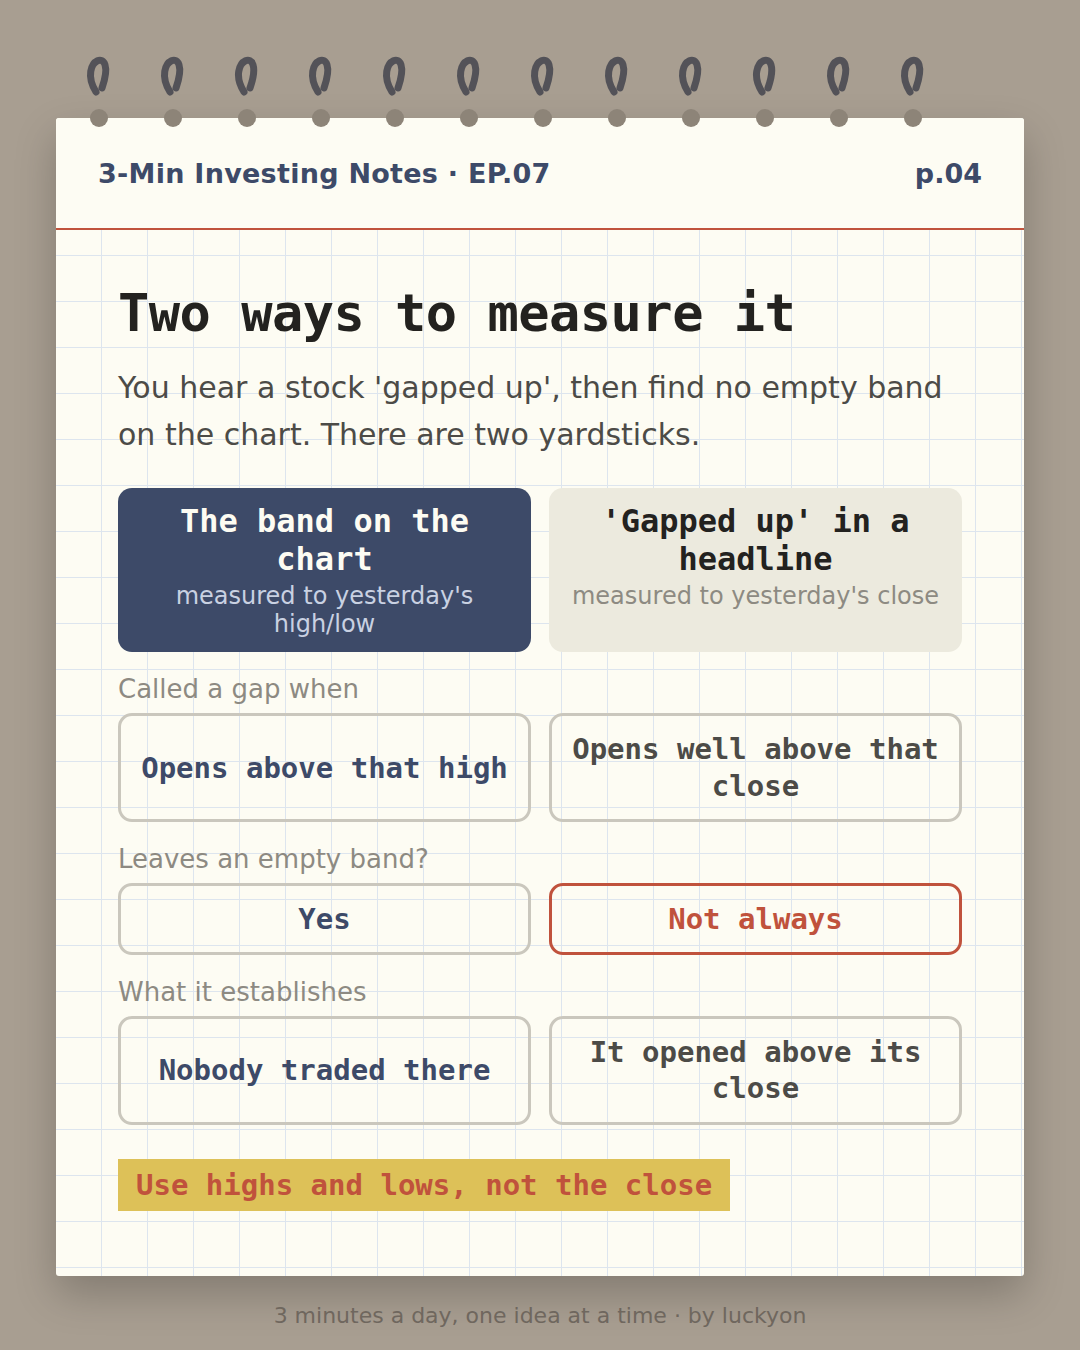
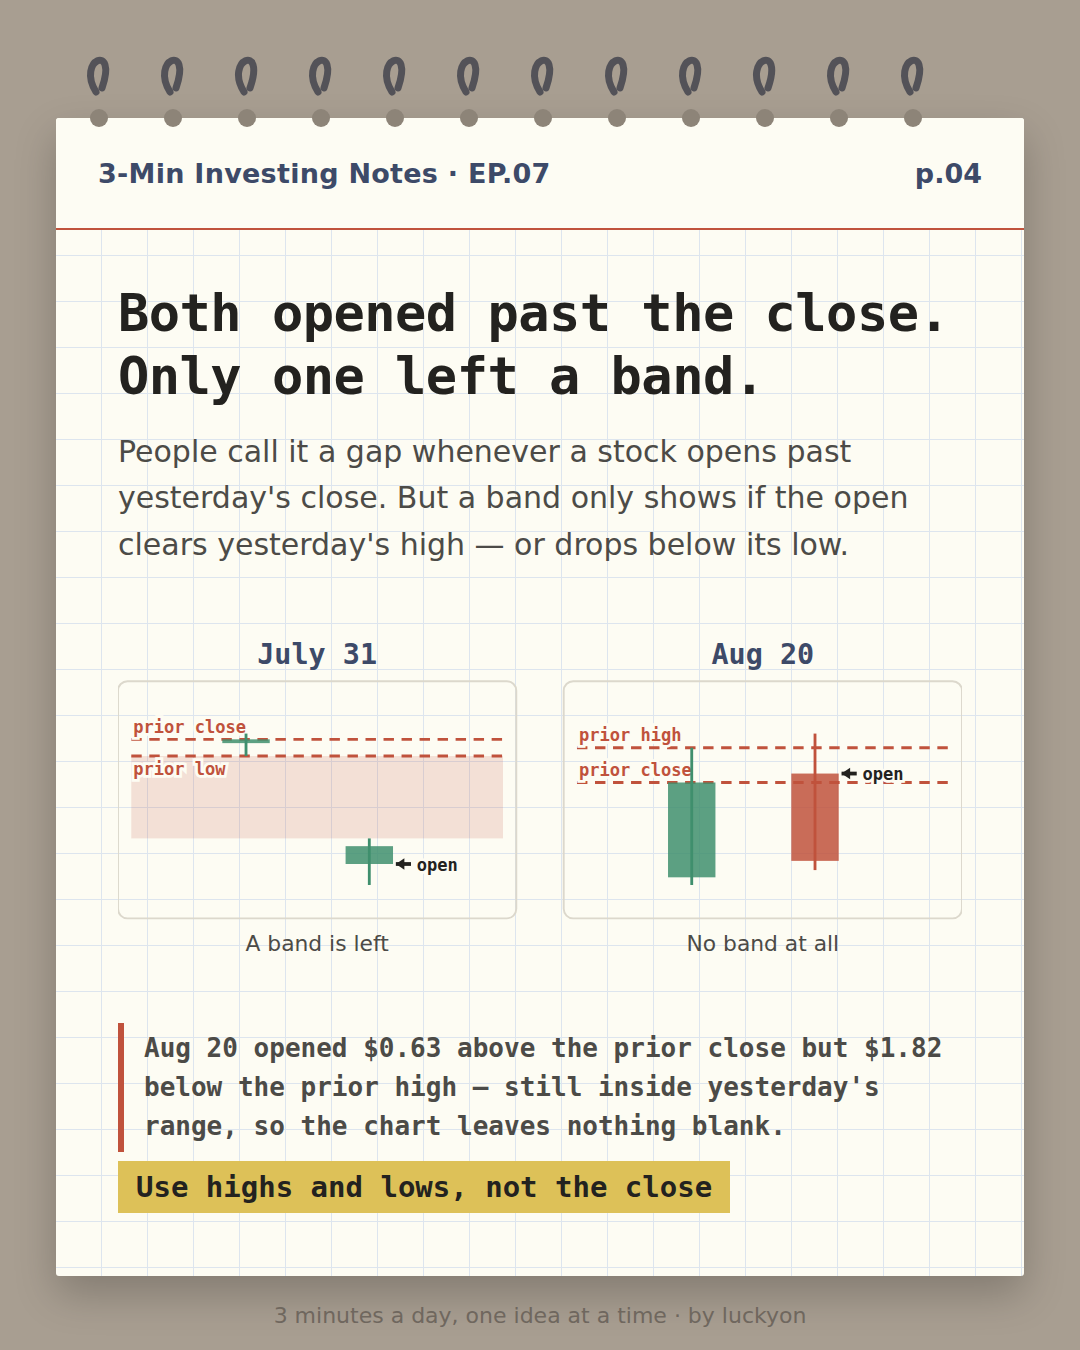
chart-notes EP.07: p.04 를 표에서 «실제 두 날을 맞댄 그림»으로
사용자 지적 — 「설명은 좋은데 딱 봐서 바로 와닿지 않는다」. 검증
에이전트도 8장 중 이 카드를 짚어 «가장 잘 조사됐는데 이 독자가 아직
가지지 않은 문제를 푼다»고 했다. 둘이 같은 자리를 가리켰다.

원인은 내용이 아니라 형식이었다. 「오늘 시가가 어제 캔들의 어디에
떨어지는가」는 본질적으로 공간적인 이야기인데 용어표로 쓰니 독자가
한 번 더 번역해서 읽어야 했다. 이 카드만 숫자도 그림도 없었다.

실제 시세 두 날을 나란히 놓았다. 삼성전자 7/31(어제 고가보다 31,000원
위 → 빈칸 남음)과 8/4(어제 종가보다 5,000원 위, 어제 고가보다 5,000원
아래 → 빈칸 없음). 같은 5,000원인데 기준에 따라 답이 갈리는 것이 그림
하나로 보인다. 영어판은 7/31 갭 하락과 8/20 을 맞댔다.

두 날의 OHLC 는 p.06 의 bars 와 완전히 같은 값이라(스크립트로 대조)
새로 검증할 숫자가 없다.

Claude-Session: https://claude.ai/code/session_01WjA7typA9szpnr2FeUn6gP

Changed region(s): [[0.0917, 0.2178, 0.8861, 0.9022], [0.4583, 0.6533, 0.55, 0.7156], [0.8556, 0.6533, 0.8861, 0.6844]]

diff --git a/cards/chart-notes/2026-09-13-ep07/preview.html b/cards/chart-notes/2026-09-13-ep07/preview.html
@@ -74,8 +74,8 @@
       <figcaption><b>p.03</b> 제목 '빈칸은 두 방향으로 벌어집니다'. 본문: 어제 고가보다 위에서 오늘이 시작하면 갭 상승, 어제 저가보다 아래에서 시작하면 갭 하락입니다. 어느 쪽이든 그 사이는 거래가 없던 구간입니다. 그림은 칸 두 개다. 왼쪽 '갭 상승'은 캔들 세 개가 연분홍 띠 아래에 있고 다음 세 개가 띠 위에 있다. 오른쪽 '갭 하락'은 반대로 캔들 세 개가 띠 위에, 다음 세 개가 띠 아래에 있다. 두 칸 모두 띠 안에는 캔들이 없다. 각각 캡션 '어제 고가 위에서 시작', '어제 저가 아래에서 시작'. 붉은 세로줄 문단: 빈칸의 위아래 끝을 정하는 건 어제 캔들과 오늘 캔들입니다. 형광펜 '어느 쪽으로, 얼마나 벌어졌는지를 함께 봅니다'.</figcaption>
     </figure>
     <figure>
-      <img src="ko/card4.png" alt="제목 '갭이 있다고도, 없다고도 합니다'. 본문: '갭 상승 출발'이라고 들었는데 차트엔 빈칸이 안 보일 때가 있습니다. 기준이 둘이라 그렇습니다. 표는 두 칸이다. 왼쪽 감청색 '차트의 빈칸 — 어제 고가·저가 기준', 오른쪽 회색 '말로 하는 갭 상승 — 어제 종가 기준'. 세 줄 비교. 언제 그렇게 부르나: 어제 고가보다 위에서 시작 / 어제 종가보다 눈에 띄게 높게 시작. 차트에 빈칸이 남나: 남습니다 / 안 남을 수도 있습니다(붉게 강조). 무엇을 알 수 있나: 그 구간에 거래가 없었습니다 / 어제 종가보다 높게 출발했습니다. 형광펜 '빈칸은 종가 말고 고가·저가로 찾습니다'." loading="lazy">
-      <figcaption><b>p.04</b> 제목 '갭이 있다고도, 없다고도 합니다'. 본문: '갭 상승 출발'이라고 들었는데 차트엔 빈칸이 안 보일 때가 있습니다. 기준이 둘이라 그렇습니다. 표는 두 칸이다. 왼쪽 감청색 '차트의 빈칸 — 어제 고가·저가 기준', 오른쪽 회색 '말로 하는 갭 상승 — 어제 종가 기준'. 세 줄 비교. 언제 그렇게 부르나: 어제 고가보다 위에서 시작 / 어제 종가보다 눈에 띄게 높게 시작. 차트에 빈칸이 남나: 남습니다 / 안 남을 수도 있습니다(붉게 강조). 무엇을 알 수 있나: 그 구간에 거래가 없었습니다 / 어제 종가보다 높게 출발했습니다. 형광펜 '빈칸은 종가 말고 고가·저가로 찾습니다'.</figcaption>
+      <img src="ko/card4.png" alt="제목 '둘 다 갭 상승 출발인데 한쪽만 빈칸이 남습니다'. 본문: 어제 종가보다 높게 시작하면 흔히 '갭 상승'이라고 합니다. 그런데 차트에 빈칸이 남으려면 어제 고가보다 위에서 시작해야 합니다. 그림은 실제 삼성전자 두 날을 나란히 놓은 칸 두 개다. 왼쪽 '7월 31일'은 어제 캔들이 아래에 있고 붉은 점선 '어제 고가' 위로 연분홍 빈 띠가 있으며, 그 위의 오늘 캔들에 '오늘 시가' 화살표가 붙어 있다. 오른쪽 '8월 4일'은 '어제 고가'와 '어제 종가' 두 점선 사이에 '오늘 시가' 화살표가 끼어 있고, 두 캔들이 서로 겹쳐 빈 띠가 없다. 칸 아래 설명은 각각 '빈칸이 남습니다', '빈칸이 없습니다'. 붉은 세로줄 문단: 8월 4일은 어제 종가보다 5,000원 위, 어제 고가보다는 5,000원 아래에서 시작했습니다. 같은 5,000원인데 어느 쪽을 기준으로 삼느냐에 따라 답이 갈립니다. 형광펜 '빈칸은 종가 말고 고가·저가로 찾습니다'." loading="lazy">
+      <figcaption><b>p.04</b> 제목 '둘 다 갭 상승 출발인데 한쪽만 빈칸이 남습니다'. 본문: 어제 종가보다 높게 시작하면 흔히 '갭 상승'이라고 합니다. 그런데 차트에 빈칸이 남으려면 어제 고가보다 위에서 시작해야 합니다. 그림은 실제 삼성전자 두 날을 나란히 놓은 칸 두 개다. 왼쪽 '7월 31일'은 어제 캔들이 아래에 있고 붉은 점선 '어제 고가' 위로 연분홍 빈 띠가 있으며, 그 위의 오늘 캔들에 '오늘 시가' 화살표가 붙어 있다. 오른쪽 '8월 4일'은 '어제 고가'와 '어제 종가' 두 점선 사이에 '오늘 시가' 화살표가 끼어 있고, 두 캔들이 서로 겹쳐 빈 띠가 없다. 칸 아래 설명은 각각 '빈칸이 남습니다', '빈칸이 없습니다'. 붉은 세로줄 문단: 8월 4일은 어제 종가보다 5,000원 위, 어제 고가보다는 5,000원 아래에서 시작했습니다. 같은 5,000원인데 어느 쪽을 기준으로 삼느냐에 따라 답이 갈립니다. 형광펜 '빈칸은 종가 말고 고가·저가로 찾습니다'.</figcaption>
     </figure>
     <figure>
       <img src="ko/card5.png" alt="제목 '메운다는 건 되돌아와 그 구간을 지나가는 것'. 본문: 빈칸이 생긴 뒤 가격이 다시 그 구간을 통과하면 '갭을 메웠다'고 합니다. 위로 벌어진 빈칸은 내려와서, 아래로 벌어진 빈칸은 올라가서 메웁니다. 그림은 붉은 점선 두 줄 사이가 연분홍 띠로 칠해져 있고, 왼쪽 아래의 감청색 선이 띠 아래에서 끊긴 뒤 띠 위에서 다시 시작해 올라갔다가 내려오며 띠를 통과한다. 통과한 지점에 붉은 동그라미와 '여기서 메워졌습니다'. 띠의 두 끝에 '빈칸 위끝', '빈칸 아래끝' 표시. 붉은 세로줄 문단: 띠 안에 들어온 것과 반대쪽 끝까지 닿은 것은 다릅니다 — 여기서는 끝까지 닿아야 메워진 것으로 봅니다. 걸리는 시간도 정해져 있지 않아, 그날 바로 메워지기도 하고 몇 주가 걸리기도 합니다. 형광펜 ''언젠가는 메워진다'가 규칙은 아닙니다'." loading="lazy">
@@ -111,8 +111,8 @@
       <figcaption><b>p.03</b> Title: 'The empty band opens two ways'. Body: Open above yesterday's high and you get a gap up. Open below yesterday's low and you get a gap down. Either way, the stretch in between went untraded. Two panels. Left, 'Gap up': three candles below a pale pink band, then three candles above it. Right, 'Gap down': three candles above the band, then three below it. No candle enters the band in either panel. Captions read 'Opens above yesterday's high' and 'Opens below yesterday's low'. A red side-rule paragraph reads: Yesterday's candle and today's candle set the two edges. Highlighter: 'Read the direction and the width together'.</figcaption>
     </figure>
     <figure>
-      <img src="en/card4.png" alt="Title: 'Two ways to measure it'. Body: You hear a stock 'gapped up', then find no empty band on the chart. There are two yardsticks. A two-column table: left in navy, 'The band on the chart - measured to yesterday's high/low'; right in grey, ''Gapped up' in a headline - measured to yesterday's close'. Three rows. Called a gap when: Opens above that high / Opens above that close. Leaves an empty band? Yes / Not always (highlighted in red). What it establishes: Nobody traded there / Opened above its close. Highlighter: 'Use highs and lows, not the close'." loading="lazy">
-      <figcaption><b>p.04</b> Title: 'Two ways to measure it'. Body: You hear a stock 'gapped up', then find no empty band on the chart. There are two yardsticks. A two-column table: left in navy, 'The band on the chart - measured to yesterday's high/low'; right in grey, ''Gapped up' in a headline - measured to yesterday's close'. Three rows. Called a gap when: Opens above that high / Opens above that close. Leaves an empty band? Yes / Not always (highlighted in red). What it establishes: Nobody traded there / Opened above its close. Highlighter: 'Use highs and lows, not the close'.</figcaption>
+      <img src="en/card4.png" alt="Title: 'Both opened past the close. Only one left a band.' Body: People call it a gap whenever a stock opens past yesterday's close. But a band only shows if the open clears yesterday's high - or drops below its low. Two panels show real Apple sessions side by side. Left, 'July 31': red dashed lines mark the prior close and the prior low, a pale pink empty band sits below them, and the day's candle hangs beneath it with an 'open' arrow. Right, 'Aug 20': the 'open' arrow sits between the 'prior high' and 'prior close' dashed lines, and the two candles overlap so no band forms. Captions read 'A band is left' and 'No band at all'. Red side-rule paragraph: Aug 20 opened $0.63 above the prior close but $1.82 below the prior high - still inside yesterday's range, so the chart leaves nothing blank. Highlighter: 'Use highs and lows, not the close'." loading="lazy">
+      <figcaption><b>p.04</b> Title: 'Both opened past the close. Only one left a band.' Body: People call it a gap whenever a stock opens past yesterday's close. But a band only shows if the open clears yesterday's high - or drops below its low. Two panels show real Apple sessions side by side. Left, 'July 31': red dashed lines mark the prior close and the prior low, a pale pink empty band sits below them, and the day's candle hangs beneath it with an 'open' arrow. Right, 'Aug 20': the 'open' arrow sits between the 'prior high' and 'prior close' dashed lines, and the two candles overlap so no band forms. Captions read 'A band is left' and 'No band at all'. Red side-rule paragraph: Aug 20 opened $0.63 above the prior close but $1.82 below the prior high - still inside yesterday's range, so the chart leaves nothing blank. Highlighter: 'Use highs and lows, not the close'.</figcaption>
     </figure>
     <figure>
       <img src="en/card5.png" alt="Title: 'Filling the gap means coming back through it'. Body: When price returns and trades through the empty band, traders say the gap has been filled. A band above gets filled on the way down; a band below, on the way up. The figure shows a pale pink band between two red dashed lines. A navy line runs along below the band on the left, stops, restarts above the band, rises, then falls back down through the band. A red circle marks where it crosses out, labelled 'filled here'. The band edges are labelled 'top edge' and 'bottom edge'. Red side-rule paragraph: There is no set time for it. Some gaps fill the same day, some take weeks, and some are never filled at all. Highlighter: ''It always fills' is not a rule'." loading="lazy">
